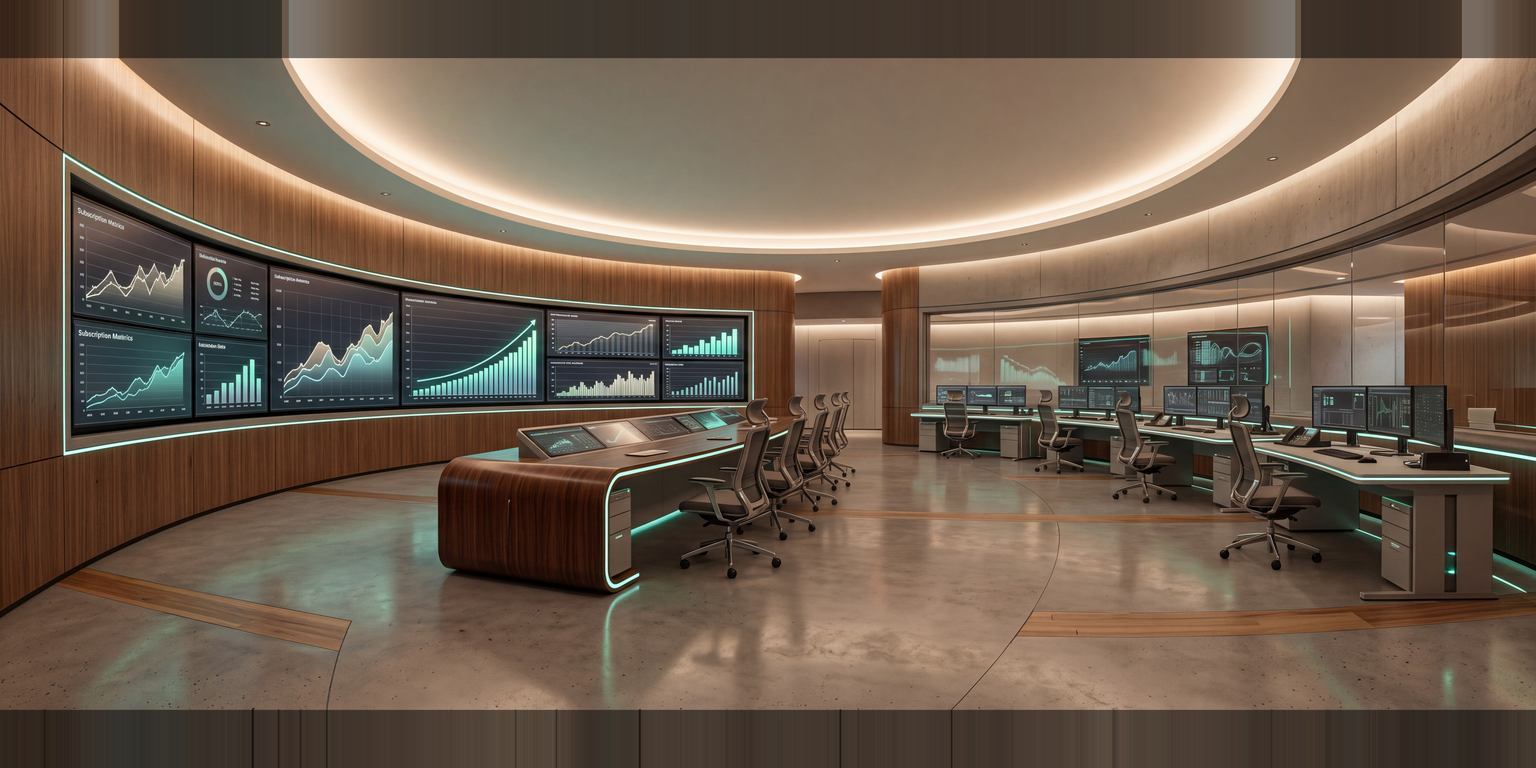
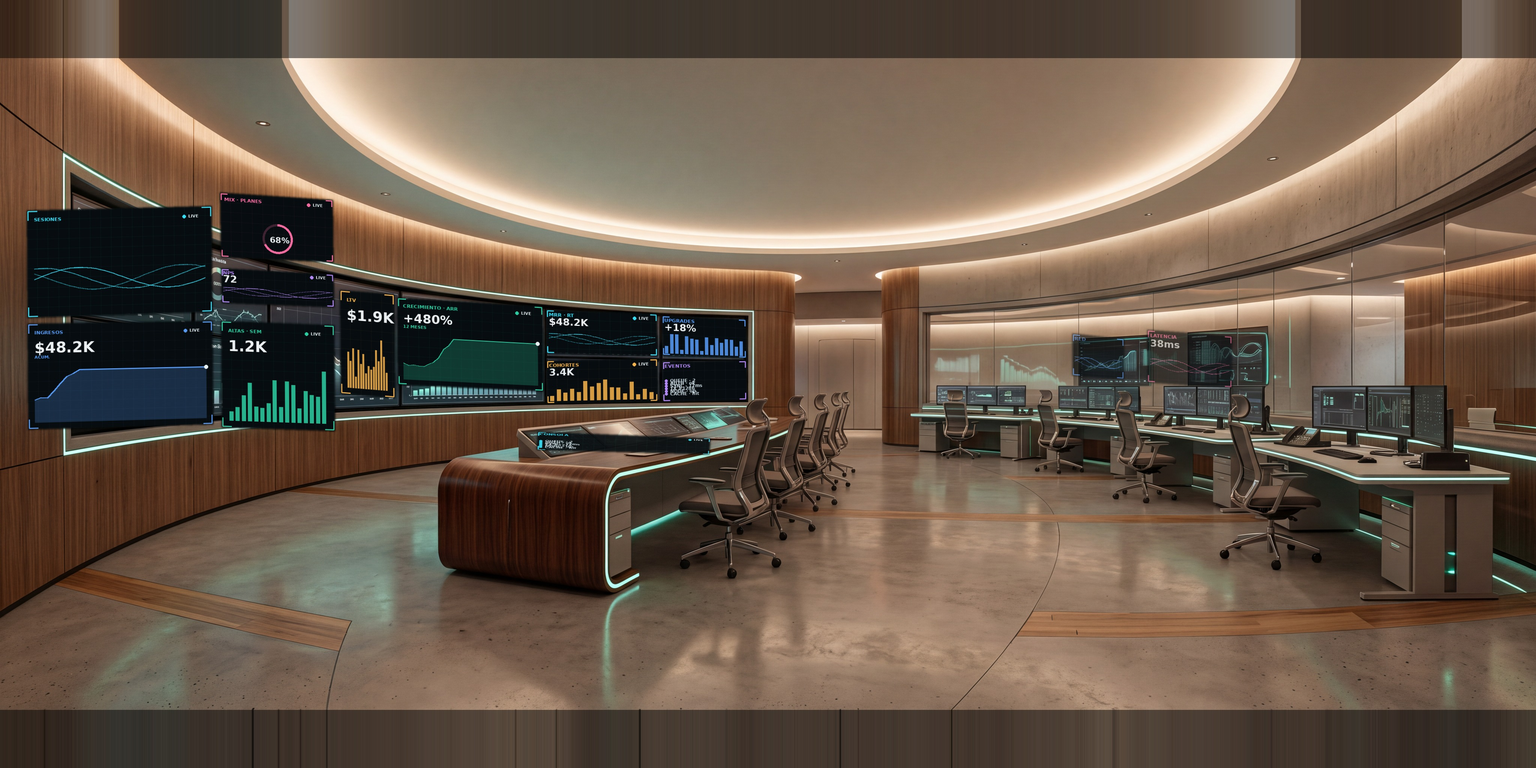
portal360: Suscripciones - tableros HORNEADOS en el pano (integracion perfecta, parte de la imagen); overlays vivos retirados en esta capa

Changed region(s): [[0.0, 0.25, 0.5, 0.5625], [0.6875, 0.4062, 0.8125, 0.5], [0.3438, 0.5625, 0.4688, 0.5938]]

diff --git a/portal360.html b/portal360.html
@@ -421,7 +421,7 @@ WDASH.dash="<div class=\"wdash\"><div class=\"wdhead\"><span>Panel · tiempo rea
     var g=new THREE.BufferGeometry();
     g.setAttribute('position',new THREE.BufferAttribute(new Float32Array([p[0].x,p[0].y,p[0].z,p[1].x,p[1].y,p[1].z,p[2].x,p[2].y,p[2].z, p[0].x,p[0].y,p[0].z,p[2].x,p[2].y,p[2].z,p[3].x,p[3].y,p[3].z]),3));
     g.setAttribute('uv',new THREE.BufferAttribute(new Float32Array([0,0,1,0,1,1, 0,0,1,1,0,1]),2));
-    var mesh=new THREE.Mesh(g,new THREE.MeshBasicMaterial({map:tex,transparent:true,depthTest:false,depthWrite:false,side:THREE.DoubleSide}));
+    var mesh=new THREE.Mesh(g,new THREE.MeshBasicMaterial({map:tex,transparent:false,depthTest:false,depthWrite:false,side:THREE.DoubleSide}));
     mesh.renderOrder=3; mesh.layers.enable(BLOOM_LAYER); scene.add(mesh);
     var s=Object.assign({},sc); s.mesh=mesh;s.cx=cx;s.tex=tex;s.acc=ACC[sc.acc]||sc.acc||ACC.g;s.title=sc.title||'';s.seed=sc.seed||Math.random()*7;s.W=cw;s.H=ch;s.iv=sc.iv||(sm?150:70);s.last=performance.now()-Math.random()*s.iv;
     drawPanel(s,performance.now()/1000); s.tex.needsUpdate=true; screens.push(s);
@@ -430,7 +430,7 @@ WDASH.dash="<div class=\"wdash\"><div class=\"wdhead\"><span>Panel · tiempo rea
   // ---- librería de paneles (estilo pantalla emisiva, animados, multicolor) ----
   function rr(c,x,y,w,h,r){c.beginPath();c.moveTo(x+r,y);c.arcTo(x+w,y,x+w,y+h,r);c.arcTo(x+w,y+h,x,y+h,r);c.arcTo(x,y+h,x,y,r);c.arcTo(x,y,x+w,y,r);c.closePath();}
   function frame(c,W,H,acc,title,t){
-    c.clearRect(0,0,W,H); c.clearRect(0,0,W,H); c.save(); c.strokeStyle='#ff00ff'; c.lineWidth=8; c.strokeRect(4,4,W-8,H-8); c.restore();
+    c.clearRect(0,0,W,H); c.fillStyle='rgba(6,11,13,1)'; c.fillRect(0,0,W,H);
     c.lineWidth=1; c.strokeStyle=hx(acc,0.05);
     for(var gx=34;gx<W;gx+=42){c.beginPath();c.moveTo(gx,0);c.lineTo(gx,H);c.stroke();}
     for(var gy=34;gy<H;gy+=42){c.beginPath();c.moveTo(0,gy);c.lineTo(W,gy);c.stroke();}
@@ -522,7 +522,7 @@ WDASH.dash="<div class=\"wdash\"><div class=\"wdhead\"><span>Panel · tiempo rea
        sheet:'media/strip-pagos.webp', cls:'pagosa'},
       {type:'door', lon:150,lat:-2, to:0, label:'Volver a Recepción'}
     ]},
-    {name:'Capa 04 · Suscripciones', pano:'media/sala5.jpg', entryYaw:0, screens:[{"type": "wave", "acc": "c", "title": "SESIONES · RT", "iv": 120, "corners": [[-173.8, 41.0], [-130.3, 42.3], [-130.2, 16.9], [-173.7, 15.5]]}, {"type": "bigline", "acc": "b", "title": "INGRESOS · 12M", "big": "$48.2K", "sub": "ACUMULADO", "iv": 120, "corners": [[-173.7, 14.4], [-130.2, 15.1], [-130.0, -9.8], [-173.5, -11.1]]}, {"type": "ring", "acc": "m", "title": "MIX · PLANES", "val": 0.68, "sub": "ANUAL", "iv": 160, "corners": [[-128.6, 46.9], [-102.0, 44.7], [-101.8, 28.3], [-128.3, 29.5]]}, {"type": "wave", "acc": "v", "title": "NPS · 90D", "big": "72", "iv": 160, "corners": [[-128.3, 27.4], [-101.8, 26.0], [-101.6, 17.8], [-128.1, 18.8]]}, {"type": "bars", "acc": "g", "title": "ALTAS · SEM", "big": "1.2K", "iv": 120, "corners": [[-128.3, 15.1], [-101.6, 14.1], [-101.4, -11.2], [-128.1, -10.5]]}, {"type": "bigline", "acc": "a", "title": "LTV · COHORTE", "big": "$1.9K", "sub": "PROMEDIO", "iv": 120, "corners": [[-100.4, 40.3], [-87.0, 38.6], [-86.8, -6.5], [-100.2, -5.6]]}, {"type": "bigline", "acc": "g", "title": "CRECIMIENTO · ARR", "big": "+480%", "sub": "12 MESES ▲", "iv": 90, "corners": [[-86.3, 28.5], [-37.4, 23.2], [-37.4, -7.7], [-86.1, -6.5]]}, {"type": "wave", "acc": "c", "title": "MRR · RT", "big": "$48.2K", "iv": 90, "corners": [[-35.4, 22.3], [-18.1, 20.6], [-18.0, 9.1], [-35.3, 10.5]]}, {"type": "bars", "acc": "b", "title": "UPGRADES · MES", "big": "+18%", "iv": 90, "corners": [[-17.4, 20.4], [-3.0, 19.0], [-2.9, 9.0], [-17.3, 10.2]]}, {"type": "bars", "acc": "a", "title": "COHORTES · 12M", "big": "3.4K", "iv": 90, "corners": [[-35.4, 7.6], [-18.1, 8.7], [-18.0, -5.6], [-35.3, -6.5]]}, {"type": "stream", "acc": "v", "title": "EVENTOS · LIVE", "iv": 90, "corners": [[-17.4, 8.4], [-3.0, 9.3], [-2.9, -5.1], [-17.3, -5.8]]}, {"type": "stream", "acc": "c", "title": "CONSOLA · LOG", "sm": 1, "iv": 180, "corners": [[-54.1, -11.1], [-13.4, -12.7], [-13.7, -16.5], [-54.3, -15.5]]}, {"type": "wave", "acc": "b", "title": "RED · NODOS", "sm": 1, "iv": 220, "corners": [[71.2, 12.0], [83.5, 10.7], [83.5, 1.1], [71.2, 1.9]]}, {"type": "wave", "acc": "m", "title": "LATENCIA", "big": "38ms", "sm": 1, "iv": 220, "corners": [[88.8, 12.8], [108.8, 11.3], [108.8, -1.0], [88.8, 0.4]]}], spots:[
+    {name:'Capa 04 · Suscripciones', pano:'media/sala5.jpg', entryYaw:0, screens:[], spots:[
       {type:'char', lon:-15,lat:-8, hk:'susc', eye:'Capa 04', title:'Suscripciones', who:'ESPECIALISTA · SUSCRIPCIONES',
        text:'Ingresos recurrentes: planes, renovaciones y reintentos que crecen mes a mes.',
        sheet:'media/strip-susc.webp', cls:'susca'},
